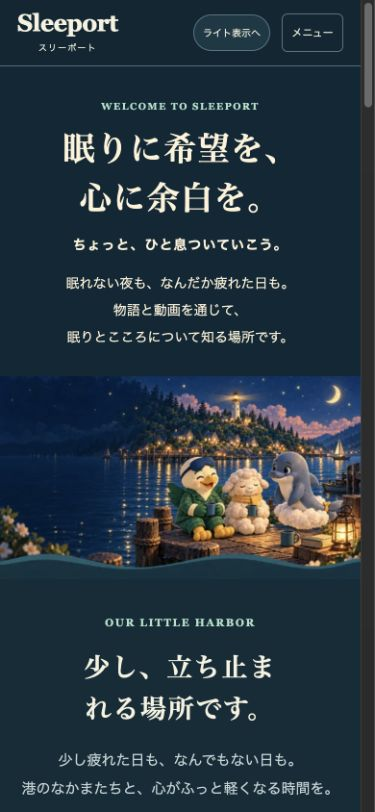
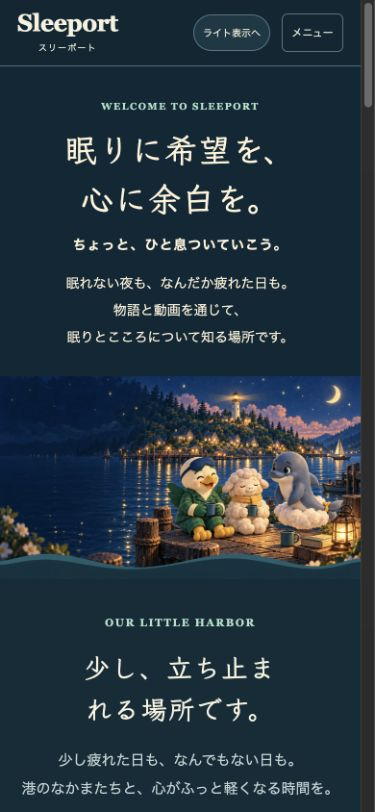
Record verified optimized production version and cleanup

Changed region(s): [[0.1467, 0.1539, 0.7333, 0.2771], [0.2347, 0.8005, 0.6747, 0.8929], [0.6747, 0.8005, 0.7333, 0.8313]]

diff --git a/outputs/project-image-audit-20261004.md b/outputs/project-image-audit-20261004.md
@@ -97,3 +97,8 @@ SVGは7枚、各252〜2101bytesで変更不要。MEGURI CSS約24.4KiB/JS約3.9Ki
 |projects/sleeport/assets/v2/porto-portrait.webp|243.0|218.6|optimized|
 |projects/sleeport/assets/v2/sleemo-portrait.webp|135.1|116.1|optimized|
 |projects/sleeport/assets/v2/wave-divider.webp|27.1|27.1|retained-already-efficient|
+
+
+公開確認: Cloudflare `096712d0-c8fb-4771-8a54-a0fa09ffb60a`。公開259件のHTTP 200および非公開URL404を確認。CSSキャッシュキーをimages-20261004に更新。
+
+整理: 今回の比較画像・圧縮検証候補・一時導入fonttools・ビルドの非保護ファイル909件を指紋付き計画で整理。原本、コード、公開出力は保持。cleanupスクリプトのassets保護規則により、専用scratch内の2回の中間ビルドのassetsを含む48,854,832bytesは保留。既存の旧distや別タスクのデータは変更していません。プレビューサーバー停止済み。

diff --git a/apps/projects-sites/README.md b/apps/projects-sites/README.md
@@ -46,4 +46,4 @@ See `outputs/project-image-audit-20261004.md` and its JSON inventory for all 78 
 
 After exporting fresh snapshots, run `python3 scripts/optimize-project-images.py` (Pillow) and `python3 scripts/compress-project-font.py` (fonttools[woff]); keep the CSS font URL set to WOFF2. Build into a fresh output directory to avoid stale files from earlier exports, then run the reference checker. Do not blindly deploy an old build directory.
 
-Optimized production version: `006197c8-e39e-4974-a8a6-0ea82660258e`. All 259 routed public paths verified HTTP 200; private URLs 404. CSS cache key is bumped so existing visitors load the WOFF2 declaration.
+Optimized production version: `096712d0-c8fb-4771-8a54-a0fa09ffb60a`. All 259 routed public paths verified HTTP 200; private URLs 404. CSS cache key is bumped so existing visitors load the WOFF2 declaration.
